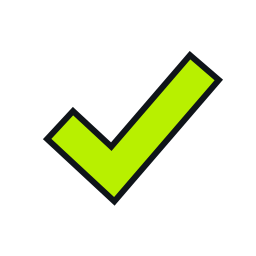
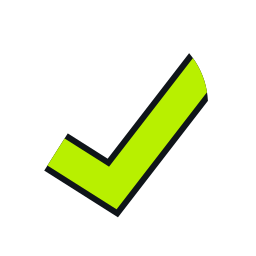
fix(web): angle Ghostless check tip to follow ghost dome
Replace square-cap stroke tip with a filled check whose top-right end
is arc-clipped to the ghost outline so it no longer ends in a flat cut.

Changed region(s): [[0.1562, 0.1875, 0.875, 0.8438]]

diff --git a/apps/web/components/GhostlessMark.tsx b/apps/web/components/GhostlessMark.tsx
@@ -6,6 +6,17 @@ const SIZE_CLASS: Record<Size, string> = {
   lg: "h-6 w-6",
 };
 
+const GHOST_PATH =
+  "M32 6c-11.2 0-20 8.6-20 20.2v22.1c0 2.4 2.7 3.7 4.6 2.2l4.1-3.2c1.7-1.3 4.1-1.3 5.8 0l3.5 2.7c1.7 1.3 4.1 1.3 5.8 0l3.5-2.7c1.7-1.3 4.1-1.3 5.8 0l4.1 3.2c1.9 1.5 4.6.2 4.6-2.2V26.2C52 14.6 43.2 6 32 6z";
+
+/** Dark knockout under the lime check (slightly wider). */
+const CHECK_DARK_PATH =
+  "M11.06 42.65L29.49 54.33L51.98 25.21L51.87 23.91L51.68 22.62L51.40 21.35L51.05 20.09L50.61 18.87L50.09 17.67L49.50 16.51L48.83 15.39L48.09 14.32L47.28 13.29L26.91 39.67L16.94 33.35Z";
+
+/** Bold lime check — top-right tip follows the ghost dome arc. */
+const CHECK_LIME_PATH =
+  "M11.86 41.38L29.14 52.33L51.75 23.05L51.58 22.13L51.37 21.22L51.12 20.33L50.82 19.44L50.49 18.58L50.11 17.72L49.70 16.89L49.25 16.08L48.76 15.28L48.23 14.52L27.26 41.67L16.14 34.62Z";
+
 type MarkProps = {
   className?: string;
   size?: Size;
@@ -13,8 +24,8 @@ type MarkProps = {
 };
 
 /**
- * Locked Ghostless mark #4: solid white ghost silhouette (no eyes) +
- * bold lime check across the body. No green ring. One lockup for pills.
+ * Locked Ghostless mark #4: solid white ghost (no eyes) + bold lime check.
+ * Top-right check tip is arc-clipped to the ghost dome (no flat square-cap cut).
  */
 export function GhostlessMark({
   className,
@@ -29,27 +40,9 @@ export function GhostlessMark({
       role={title ? "img" : undefined}
     >
       {title ? <title>{title}</title> : null}
-      <path
-        fill="#FFFFFF"
-        d="M32 6c-11.2 0-20 8.6-20 20.2v22.1c0 2.4 2.7 3.7 4.6 2.2l4.1-3.2c1.7-1.3 4.1-1.3 5.8 0l3.5 2.7c1.7 1.3 4.1 1.3 5.8 0l3.5-2.7c1.7-1.3 4.1-1.3 5.8 0l4.1 3.2c1.9 1.5 4.6.2 4.6-2.2V26.2C52 14.6 43.2 6 32 6z"
-      />
-      {/* Dark knockout so lime check stays crisp on the white ghost */}
-      <path
-        fill="none"
-        stroke="#0F1419"
-        strokeWidth="11"
-        strokeLinecap="square"
-        strokeLinejoin="miter"
-        d="M18.5 34.5 28.2 43.5 48 20.5"
-      />
-      <path
-        fill="none"
-        stroke="#B8F000"
-        strokeWidth="8"
-        strokeLinecap="square"
-        strokeLinejoin="miter"
-        d="M18.5 34.5 28.2 43.5 48 20.5"
-      />
+      <path fill="#FFFFFF" d={GHOST_PATH} />
+      <path fill="#0F1419" d={CHECK_DARK_PATH} />
+      <path fill="#B8F000" d={CHECK_LIME_PATH} />
     </svg>
   );
 }
